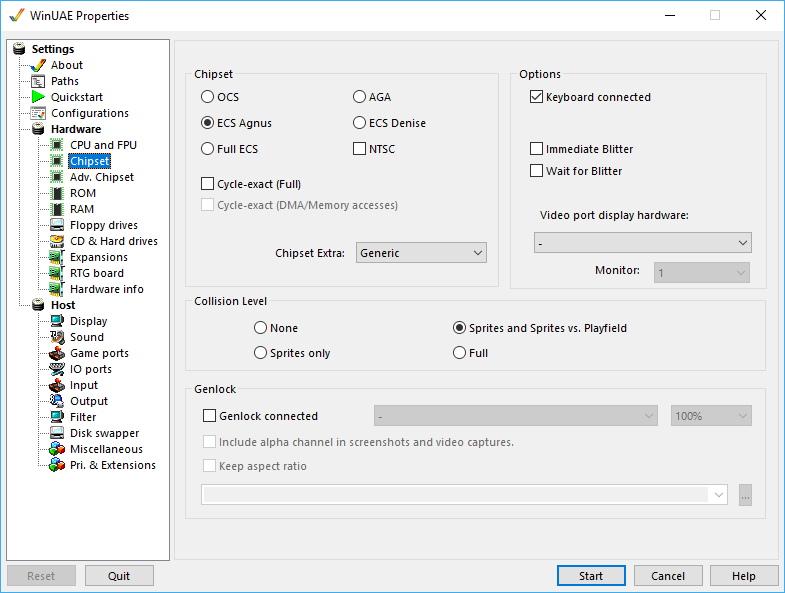
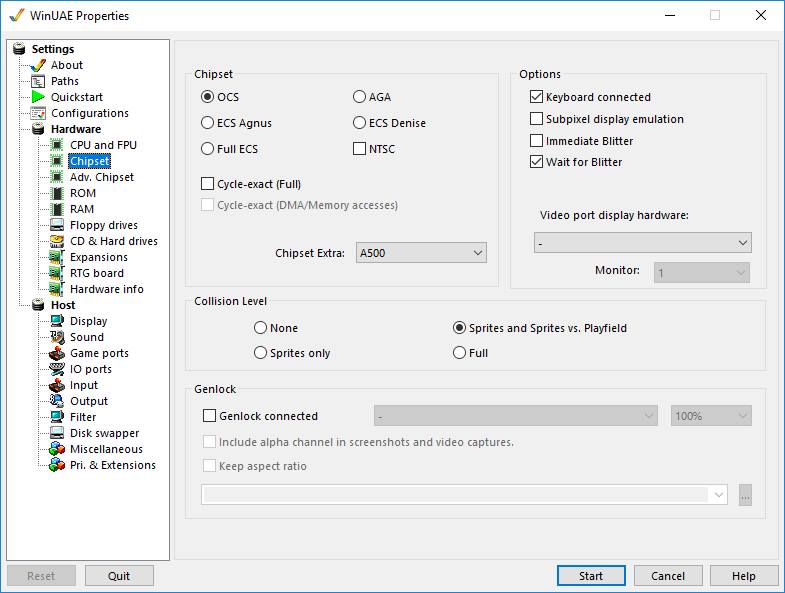
Updates for WinUAE 4.1 and various improvements.

diff --git a/gui/misc.htm b/gui/misc.htm
@@ -7,7 +7,7 @@
 <body>
   <article>
     <p>Advanced settings which do not fit into other
-    categories</p>.<img class="center" src="misc.png" alt=
+    categories.</p><img class="center" src="misc.png" alt=
     "WinUAE - Misc">
     <h1>Advanced</h1>
     <p><strong>Untrap</strong> = <strong>Middle Button</strong>
@@ -24,16 +24,16 @@
     combination to quit WinUAE. If this option is enabled, the
     ALT-F4 combination can be used by the Amiga properly, and
     CTRL-F11 will quit WinUAE.<br>
-    <strong>Don't show taskbar button</strong>. Removes taskbar
+    <strong>Don't show taskbar button</strong>. Removes the taskbar
     button.<br>
-    <strong>Don't show notification icon.</strong> Removes WinUAE
-    icon from notification area.<br>
+    <strong>Don't show notification icon.</strong> Removes the
+    WinUAE icon from the notification area.<br>
     <strong>Always on top</strong> Make sure WinUAE window is
     always on top of other windows.<br>
     <strong>Disable screensaver</strong> Temporarily stops screen
     saver feature for the display when using WinUAE<br>
     <strong>Syncronize clock</strong> Synchronizes Amiga clock with
-    PC clock<br>
+    the PC clock.<br>
     <strong>One second reboot pause</strong> introduces a short
     pause before a reboot.<br>
     <strong>Faster RTG.</strong> Disables non needed emulation
@@ -56,7 +56,7 @@
     debug memory access to protected or unallocated memory
     areas.<br>
     <strong>Blank unused displays</strong> opens full screen
-    topmost black window(s)) option.<br>
+    topmost black window(s) option.<br>
     <strong>Start mouse uncaptured</strong>. Start WinUAE but do
     not capture mouse pointer in WinUAE window.<br>
     <strong>Start minimized.</strong> Minimize WinUAE window when
@@ -72,17 +72,20 @@
     write protection on the Hard drives window, so you can't
     accidentally untick it.<br>
     <strong>Hide all UAE autoconfig boards</strong> will hide any
-    extra Zorro boards etc from the emulator.<br>
+    extra Zorro boards from the emulator.<br>
     <strong>Right Control = Right Windows key</strong>. Map the
     Windows key to a Right Ctrl key for some keyboards.<br>
     <strong>Windows shutdown / logoff notification.</strong>
     Display WinUAE screen in Windows shutdown or logoff screen if
     emulation session is active.<br>
     <strong>Warn when attempting to close window</strong>. Display
-    warning if window close is attempted.<br>
+    a warning if window close is attempted.<br>
     <strong>Power led dims when audio filter is disabled</strong>.
     Dim the power light when audio filter is disabled (see Sound
-    tab).<br></p>
+    tab).<br>
+    <strong>Automatically capture mouse when window is
+    activated.</strong> Saves having to capture mouse when swapping
+    windows to Winuae.</p>
     <h1>Miscellaneous Options</h1>
     <p><span><strong>SCSI and CD/DVD access .</strong> Select type
     of ASPI layer to use e.g. SPTI, Adaptec, Nero ASPI or Frog
@@ -99,11 +102,11 @@
     <strong>Autodetect</strong> will attempt to load the language
     of the host system if it is available, or default to
     English.<br>
-    <strong>GUI Font.</strong> Select font for GUI, select a font
+    <strong>GUI Font.</strong> Select a font for GUI, select a font
     using Windows font selection window.<br>
-    <strong>List font.</strong> Select font for lists, select a
+    <strong>List font.</strong> Select a font for lists, select a
     font using Windows font selection window.<br>
-    <strong>Set default.</strong> Set default font.<br>
+    <strong>Set default.</strong> Set the default font.<br>
     <strong>Select</strong> font size from 60% to 140%.<br>
     <strong>Resizable GUI</strong> option to allow you expand or
     shrink the WinUAE Window.<br>

diff --git a/gui/chipset.htm b/gui/chipset.htm
@@ -14,8 +14,11 @@
     <ul>
       <li><strong>OCS</strong>: This was the first or original
       chipset, used in the Amiga 1000.</li>
-      <li><strong>ECS Agnus</strong> Uses enhanced Fat Agnus which
-      supplies 1MB of Chip RAM.</li>
+      <li>
+        <strong>ECS Agnus</strong> Uses enhanced Fat <a href=
+        "../background/custchips.htm">Agnus</a> which supplies 1MB
+        of Chip RAM.
+      </li>
       <li><strong>Full ECS</strong>: This was the next generation
       of Amiga chipsets. Compared to OCS, they provided higher
       resolutions, but no expansion of the color palette.</li>
@@ -23,8 +26,10 @@
       advanced chipset.<br>
       <strong>NOTE:</strong> AGA modes do not work with 8-bit color
       depth screen modes!</li>
-      <li><strong>ECS Denise</strong> Use the new ECS display modes
-      with Denise Chip.</li>
+      <li>
+        <strong>ECS Denise</strong> Use the new ECS display modes
+        with <a href="../background/custchips.htm">Denise</a> Chip.
+      </li>
     </ul>
     <p><strong>NTSC</strong> Enables US NTSC screen mode (default
     is PAL).<br>
@@ -40,15 +45,16 @@
     <h1>Options</h1>
     <p><strong>Keyboard connected</strong> Sets whether a keyboard
     is connected to the machine<br>
-    <br>
-    <strong>Immediate Blitter</strong> Does requested blits
-    immediately. The Blitter serves to provide extremely fast,
-    animated graphics that can be designed to be especially
-    realistic.<br>
-    <strong>Wait for Blitter</strong>. Wait for the Blitter to
+    <strong>Subpixel display emulation</strong> Support
+    hires/superhires pixel positioning and borderblank horizontal
+    signle hires pixel offset fully emulated. Requires more CPU
+    power.<br>
+    <strong>Immediate Blitter</strong> Does requested <a href=
+    "../background/custchips.htm">blits</a> immediately.<br>
+    <strong>Wait for Blitter</strong> Wait for the Blitter to
     complete operations.<br>
     <br>
-    <strong>Video port display hardware.</strong> Selection of
+    <strong>Video port display hardware</strong> Selection of
     Autodetect, A2024, Graffiti, Black Belt systems HAM-E,
     Newtronic video, Archos AVideo, Impulse Firecracker or Digital
     Creations DCTV.<br>
@@ -81,7 +87,8 @@
     <strong>Percentage</strong> of lock between sources.<br>
     <strong>Include alpha channel in screenshots and video
     captures.</strong><br>
-    <strong>Keep aspect ratio</strong><br>
+    <strong>Keep aspect ratio</strong> Keep source width and
+    height.<br>
     <strong>Genlock file</strong> Image file or video file to
     use.</p>
   </article>

diff --git a/faq.htm b/faq.htm
@@ -62,7 +62,7 @@
       <li>Seems to be a bug in AsimCDFS, because it happens on real
       Amigas as well</li>
     </ul>
-    <p>cacheCDFS:</p>
+    <p>CacheCDFS:</p>
     <ul>
       <li>Set the MaxTransfer size to 0x10000 (65 kb) in the
       mountfile</li>
@@ -118,7 +118,7 @@
     really. WinUAE exceeds the capabilities of most hardware
     Amigas.</p>
     <h1>Can I use the mouse wheel?</h1>
-    <p>Yes, but like on a real Amiga, you need the tool Freewheel
+    <p>Yes, but like on a real Amiga, you need the Freewheel tool
     from AmiNet.</p>
     <h1>How do I create a blank disk for saving files or
     games?</h1>
@@ -165,8 +165,8 @@
     <h1>Can I access the Internet through WinUAE?</h1>
     <p>Yes, you can through the PC's Internet connection by
     enabling the <strong>BSD socket library support</strong>
-    feature on the <a href="gui/misc.htm">Misc</a> page in
-    configuration.</p>
+    feature on the <a href="gui/expansions.htm">Expansions</a> page
+    in configuration.</p>
     <h1>How can I make or see inside ADF files without using an
     emulator?</h1>
     <p>You need ADFOpus or ADFView which will allow you to create
@@ -198,7 +198,9 @@
     which includes Scalos (Workbench replacement), MUI 3.8,
     Picasso96, NewIcons, VisualPrefs, MCP, MUI tools and Screentab.
     There are add-ons for Music, Internet, Languages and
-    Shapeshifter.</p>
+    Shapeshifter. Also, try the latest <a href=
+    "links.htm#tools">AmiKit</a>, which includes Directory Ops and
+    many other useful tools.</p>
     <h1>When I run WinUAE, I get an error DINPUT8.DLL not
     found?</h1>
     <p>Please update your OS and WinUAE. If you are intentionally
@@ -221,8 +223,14 @@
     <h1>Is there an emulator for the AmigaOne or PPC
     processor?</h1>
     <p>There is a Classic Amiga emulator for the AmigaOne that
-    comes with AmigaOS 4. There is a PPC emulator for x86 systems
-    from <a href="links.htm#emulators">PearPC</a>.</p>
+    comes with AmigaOS 4. Winuae 4.0 or later now supports PowerPC
+    (PPC) processors using the CyberStorm PPC or Blizzard PPC
+    expansion accelerator boards, along with Picasso IV Zorro for
+    graphics, Blizzard PPC SCSI-2 HD Controller for Hard disk
+    support.<br>
+    Unfortunately, you cannot use uaescsi.device, uaenet.device,
+    bsdsocket.library, PC drives or removable drive options as they
+    are not compatible with PPC emulation.</p>
     <h1>What is the folder "displaydrivers" for?</h1>
     <p>These are the picasso96 UAE drivers. It is usually safe to
     ignore the drawer. The latest Picasso96 installer has working

diff --git a/gui/cpu.htm b/gui/cpu.htm
@@ -17,14 +17,14 @@
       <li><strong>68010</strong> is a slightly more advanced 68K
       member, but never actually shipped in a real Amiga.</li>
       <li><strong>68020</strong> is a much more advanced 68K CPU,
-      with some new instructions, and a fully 32-bit engine. Used
-      in the A2500 for brief period on the A2520 card. If 24 bit
-      addressing is enabled, it is the same as th 68EC020 chip in
-      the A1200.</li>
+      with some new instructions, and it has a fully 32-bit engine.
+      Used in the A2500 for brief period on the A2520 card. If 24
+      bit addressing is enabled, it is the same as the 68EC020 chip
+      in the A1200.</li>
       <li><strong>68030</strong> This is a mid range CPU used in
-      the A3000 and low end A4000s.</li>
+      the A3000 and the low end A4000s.</li>
       <li><strong>68040</strong> is the top CPU provided with the
-      A4000 desktop computer</li>
+      A4000 desktop computer.</li>
       <li><strong>68060</strong> is the top end CPU mainly provided
       on accelerator cards and the A4000T. It requires the
       68060.library installed before using.</li>
@@ -36,8 +36,9 @@
     this setting for proper compatibility.<br>
     <strong>Data cache emulation</strong> Besides the instruction
     cache, you can also emulate the data cache on the CPU.<br>
-    <strong>JIT</strong> can be enabled to access the Advanced JIT
-    settings if the 68030 or better is selected (See below).<br>
+    <strong>JIT</strong> can be enabled to access the Advanced Just
+    In Time settings if the 68030 or higher is selected (see
+    below).<br>
     <strong>68040 MMU</strong> enables the Memory Management Unit
     of the 68040 for operating systems like Linux on the Amiga. It
     is not compatible with JIT.<br>
@@ -91,7 +92,7 @@
     <h1>PPC CPU Settings</h1>
     <p><strong>PPC CPU Emulation (Blizzard PPC / Cyperstorm
     PPC)</strong> Enables the PPC emulation; A separate plugin is
-    required<br>
+    required - see <a href="expansions.htm">Expansions</a>.<br>
     <strong>Stopped M68K CPU idle mode</strong> Sets level of idle
     mode for the 680x0 processor</p>
     <h1>x86 Bridgeboard CPU options</h1>

diff --git a/gui/configurations.htm b/gui/configurations.htm
@@ -16,19 +16,22 @@
     and then clicking the Load button, or by double-clicking a
     configuration in the list. You can use the Load from button to
     load a configuration from a different location on the hard
-    disk.<br>
+    disk. Click Start to begin the emulation.<br>
     Additionally, you can double-click any .uae config-file from
     the Windows Explorer, or from a Desktop Shortcut. The
     configuration will load, and if the <a href="misc.htm">Show GUI
     on Startup</a> setting is disabled, WinUAE will immediately
     launch into emulation-mode, bypassing the GUI completely.<br>
+    If you have a lot of configurations, you can use the Search or
+    Filter boxes to list the required configurations you want to
+    use.<br>
     To save your changes for a configuration which you've loaded,
     simply press the Save button. If you've made changes to a
     configuration and want to save it under a different name,
     simply change the Name field on this page of the GUI or select
     Save As. You can also adjust the Description field.<br>
-    Select a configuration from the list, and click the Delete
-    button.</p>
+    To remove an old configuration, select a configuration from the
+    list, and click the Delete button.</p>
   </article>
   <footer>
     Help content is under the terms of the <a href=

diff --git a/emulation/jit.htm b/emulation/jit.htm
@@ -48,6 +48,9 @@
     something that works with "no" and doesn't with "yes", it most
     likely is a bug and you should <a href=
     "../credits/contrib.htm">report</a> it.</p>
+    <p><strong>Catch unexpected exceptions</strong> If there is an
+    error, then this option will catch it to avoid a system
+    crash.</p>
   </article>
   <footer>
     Help content is under the terms of the <a href=

diff --git a/bugs.htm b/bugs.htm
@@ -17,7 +17,7 @@
     all bug reports:</p>
     <ul>
       <li>WinUAE Version</li>
-      <li>Host Operating System (Windows XP, Vista, 7, 8 etc.)</li>
+      <li>Host Operating System (Windows 7, 8, 10 etc.)</li>
       <li>DirectX version</li>
       <li>PC Graphics card and the driver version</li>
       <li>Sound card and the driver version</li>

diff --git a/credits/changelog.htm b/credits/changelog.htm
@@ -68,6 +68,8 @@
     <ul>
       <li>Updates for WinUAE 4.0: CPU & FPU, Chipset, Adv. Chipset,
       Add Harddrive, RTG Board, Misc</li>
+      <li>Updates for WinUAE 4.1</li>
+      <li>Various updates and grammar corrections</li>
       <li>A few index changes</li>
     </ul>
     <h1>Version 2.2.15</h1>
